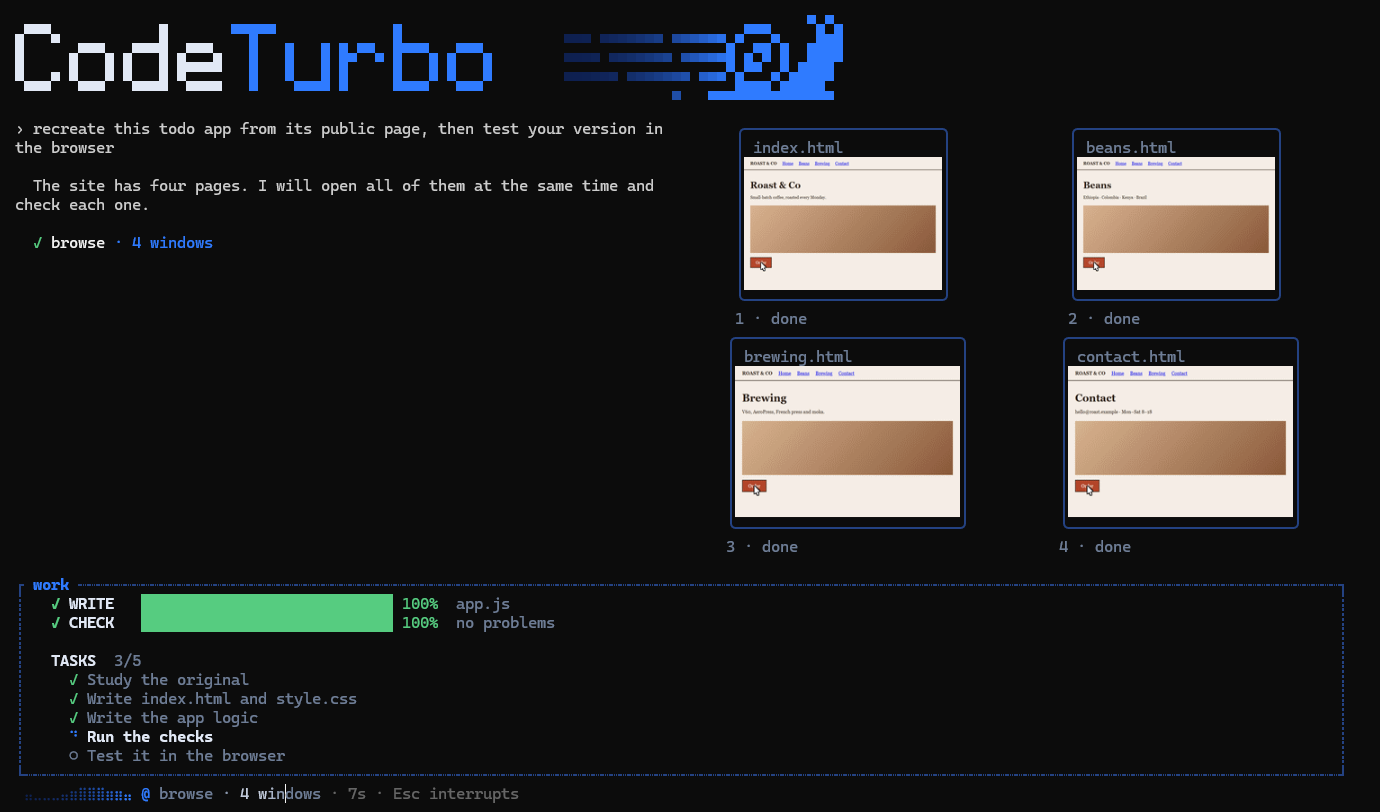
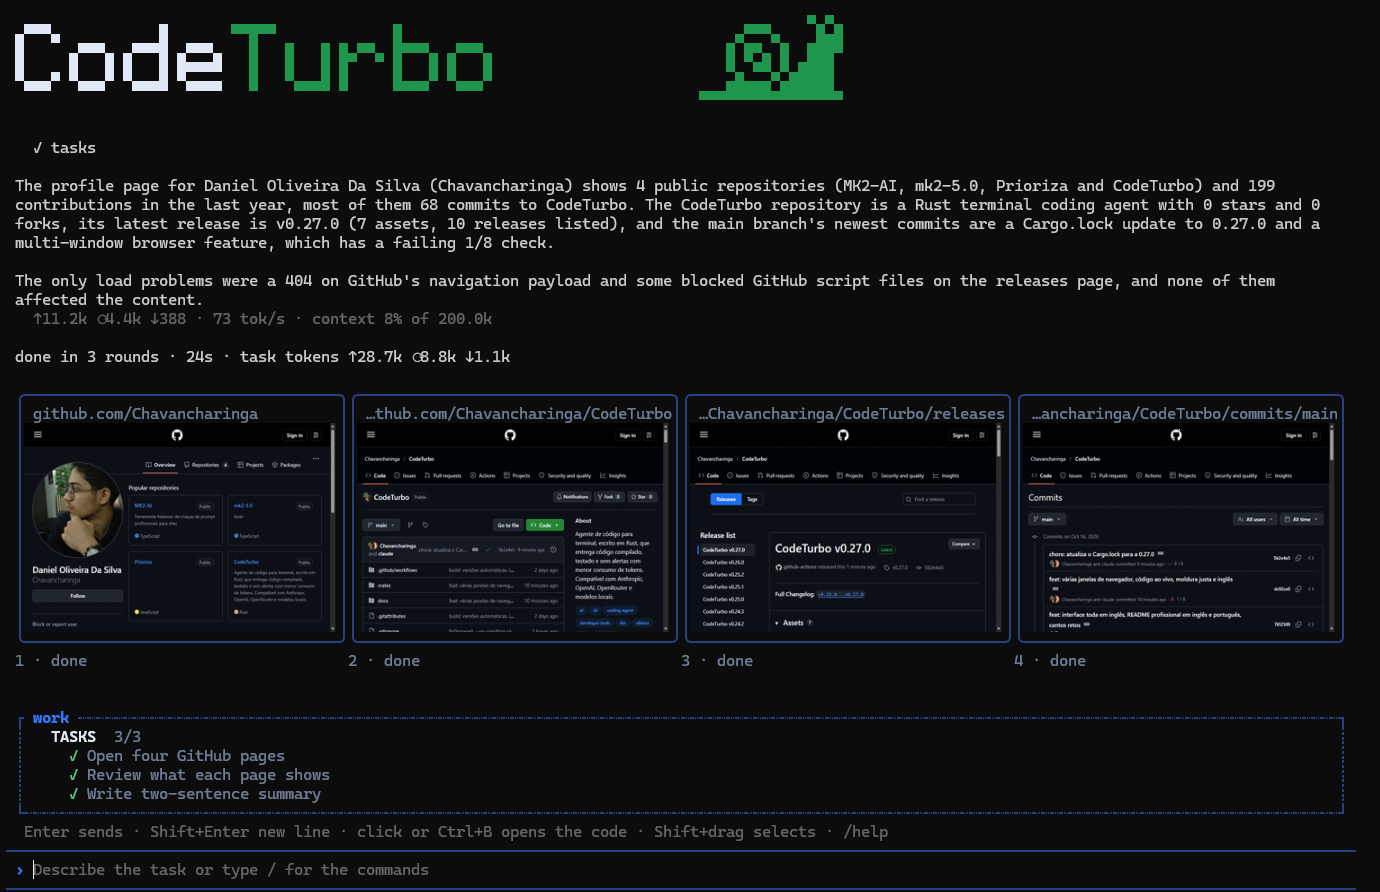
feat(tui): janelas do navegador do mesmo tamanho, em faixa para 3 ou mais
Duas páginas ficam no painel da direita; três ou mais ficam numa faixa
com a largura da tela, todas do mesmo tamanho. Print real do GitHub no README.

diff --git a/crates/coturbo-cli/src/tui/browser.rs b/crates/coturbo-cli/src/tui/browser.rs
@@ -210,31 +210,33 @@ fn readable_on(bg: (u8, u8, u8)) -> Color {
     if lum > 140.0 { Color::Rgb(24, 24, 28) } else { Color::Rgb(245, 245, 248) }
 }
 
-/// Columns and rows of the grid for `n` pages in a window `width` wide: a
-/// page needs about twenty columns to be worth showing.
-fn grid(n: usize, width: u16) -> (usize, usize) {
-    let wanted = match n {
-        0 | 1 => 1,
-        2..=4 => 2,
-        _ => 3,
-    };
-    let cols = wanted.min((width as usize / 20).max(1));
-    (cols, n.max(1).div_ceil(cols))
+/// The grid that shows `n` pages of shape `size` largest inside an area `w`
+/// columns by `h` rows: its columns and rows.
+fn best_grid(n: usize, w: u16, h: u16, size: (u32, u32)) -> (usize, usize) {
+    let (vw, vh) = (size.0.max(1) as f32, size.1.max(1) as f32);
+    let n = n.max(1);
+    let mut best = (1, n, -1.0f32);
+    for cols in 1..=n {
+        let rows = n.div_ceil(cols);
+        let (cw, ch) = (w as usize / cols, h as usize / rows);
+        if cw < 14 || ch < 7 {
+            continue;
+        }
+        // The frame takes two columns and four rows around the page.
+        let scale = ((cw as f32 - 2.0) / vw).min((ch as f32 - 4.0) * 2.0 / vh);
+        if scale > best.2 + 1e-6 {
+            best = (cols, rows, scale);
+        }
+    }
+    (best.0, best.1)
 }
 
-/// The cell of each of `n` pages inside `rect`, row by row.
-fn cells(rect: Rect, n: usize) -> Vec<Rect> {
-    let (cols, rows) = grid(n, rect.width);
+/// The cell of each of `n` pages inside `rect`, row by row, all the same size.
+fn cells(rect: Rect, n: usize, size: (u32, u32)) -> Vec<Rect> {
+    let (cols, rows) = best_grid(n, rect.width, rect.height, size);
     let (cw, ch) = (rect.width / cols as u16, rect.height / rows as u16);
-    (0..n)
-        .map(|i| {
-            let (c, r) = ((i % cols) as u16, (i / cols) as u16);
-            // The last column and row take what is left over.
-            let w = if c as usize == cols - 1 { rect.width - cw * c } else { cw };
-            let h = if r as usize == rows - 1 { rect.height - ch * r } else { ch };
-            Rect { x: rect.x + cw * c, y: rect.y + ch * r, width: w, height: h }
-        })
-        .collect()
+    let x0 = rect.x + (rect.width - cw * cols as u16) / 2;
+    (0..n).map(|i| Rect { x: x0 + cw * (i % cols) as u16, y: rect.y + ch * (i / cols) as u16, width: cw, height: ch }).collect()
 }
 
 /// Where everything goes in the cell `cell`: the frame (as small as the
@@ -499,20 +501,33 @@ impl BrowserView {
         self.tabs.first().and_then(|t| t.pointer(now))
     }
 
-    /// Rows the window needs to show its pages whole at `cols` columns: with
-    /// several pages, the same space is shared between them.
+    /// Rows the window needs to show its page whole at `cols` columns.
     pub fn rows_for(&self, cols: u16) -> u16 {
-        let n = self.windows();
-        let (c, r) = grid(n, cols);
-        let cell = cols / c as u16;
-        let one = self.tabs.iter().find(|t| t.pixels.is_some()).map_or(4, |t| t.rows_for(cell));
-        one * r as u16
+        if self.windows() > 1 {
+            // Two pages, one above the other, in the panel at the side.
+            return self.rows_wide(cols, 60);
+        }
+        self.tabs.iter().find(|t| t.pixels.is_some()).map_or(4, |t| t.rows_for(cols))
+    }
+
+    /// With three or more pages the window lies across the screen; one or two
+    /// stay in the panel at the right (two are stacked there).
+    pub fn wide(&self) -> bool {
+        self.windows() > 2
+    }
+
+    /// Rows a window `width` columns wide needs for all its pages, at most `max`.
+    pub fn rows_wide(&self, width: u16, max: u16) -> u16 {
+        let Some(first) = self.tabs.iter().find(|t| t.pixels.is_some()) else { return 4 };
+        let (cols, rows) = best_grid(self.windows(), width, max, first.size);
+        (first.rows_for(width / cols as u16) * rows as u16).min(max)
     }
 
     /// The pages that are open, with the cell of each in a window at `rect`.
     fn placed(&self, rect: Rect) -> Vec<(usize, Rect)> {
         let open: Vec<usize> = (0..self.tabs.len()).filter(|&i| self.tabs[i].pixels.is_some()).collect();
-        open.iter().copied().zip(cells(rect, open.len())).collect()
+        let size = open.first().map_or((880, 560), |&i| self.tabs[i].size);
+        open.iter().copied().zip(cells(rect, open.len(), size)).collect()
     }
 
     /// With real pictures: once the window is fully open, each page is drawn as

diff --git a/crates/coturbo-cli/tests/tui.rs b/crates/coturbo-cli/tests/tui.rs
@@ -1274,8 +1274,9 @@ fn several_pages_share_the_space_of_one_window_with_only_the_address_on_top() {
         four.apply(frame(i, &format!("file:///site/{page}.html")), t0);
     }
     assert_eq!((one.windows(), four.windows()), (1, 4));
-    // Four pages fit in the room of one: the window is not four times taller.
-    assert!(four.rows_for(60) <= one.rows_for(60) * 2, "{} vs {}", four.rows_for(60), one.rows_for(60));
+    // Several pages lie across the screen, within the height they are given.
+    assert!(four.wide() && !one.wide());
+    assert!(four.rows_wide(60, 24) <= 24, "{}", four.rows_wide(60, 24));
     let later = t0 + Duration::from_secs(2);
     let area = ratatui::layout::Rect::new(0, 0, 60, 24);
     let mut buf = ratatui::buffer::Buffer::empty(area);
@@ -1313,4 +1314,17 @@ fn the_frame_hugs_the_page_and_the_caption_sits_below_it_outside() {
     let page_row = rows.iter().find(|r| r.contains('▀')).unwrap();
     assert_eq!(top.find('╭'), page_row.find('│'), "frame and page share their left edge:\n{text}");
     assert!(!rows[..bottom].iter().any(|r| r.contains("clicando")));
+}
+
+#[test]
+fn two_pages_stay_at_the_right_and_more_lie_across_the_screen() {
+    use coturbo_cli::tui::browser::BrowserView;
+    let t0 = std::time::Instant::now();
+    let mut v = BrowserView::default();
+    for i in 0..4 {
+        let mut f = browser_frame(None, false);
+        f.window = i;
+        v.apply(f, t0);
+        assert_eq!(v.wide(), i >= 2, "{} page(s)", i + 1);
+    }
 }

diff --git a/crates/coturbo-cli/src/tui/app.rs b/crates/coturbo-cli/src/tui/app.rs
@@ -1004,7 +1004,15 @@ impl App {
         let mut body = Rect { x: body.x + 1, width: body.width.saturating_sub(2), ..body };
         // The mini browser takes the right of the screen while the agent uses a page.
         let mut browser_rect = None;
-        if self.browser.visible(now) && area.width >= 80 && area.height >= 20 {
+        if self.browser.visible(now) && area.width >= 80 && area.height >= 20 && self.browser.wide() {
+            // Several pages lie in a strip across the bottom of the conversation.
+            let ph = self.browser.rows_wide(body.width, (body.height * 3 / 5).max(8)).min(body.height.saturating_sub(4));
+            browser_rect = Some(Rect { x: body.x, y: body.bottom().saturating_sub(ph), width: body.width, height: ph });
+            let given = (ph as f32 * self.browser.progress(now)).round() as u16;
+            if given > 0 {
+                body.height = body.height.saturating_sub(given + 1);
+            }
+        } else if self.browser.visible(now) && area.width >= 80 && area.height >= 20 {
             let pw = (body.width / 2).clamp(40, 80);
             if body.width > pw + 30 {
                 let ph = self.browser.rows_for(pw).min(body.height);

diff --git a/crates/coturbo-cli/examples/vitrine.rs b/crates/coturbo-cli/examples/vitrine.rs
@@ -107,7 +107,8 @@ async fn main() {
             std::fs::write(site.join(format!("{name}.html")), html).unwrap();
         }
         let browser = coturbo_design::render::find_browser().expect("Edge or Chrome");
-        for (n, (name, _, _)) in pages.iter().enumerate() {
+        let count: usize = std::env::args().nth(2).and_then(|a| a.parse().ok()).unwrap_or(4);
+        for (n, (name, _, _)) in pages.iter().take(count).enumerate() {
             let mut got: Vec<Frame> = Vec::new();
             let actions = vec![Action::Open(format!("{name}.html")), Action::Click(Target::Text("Order".into()))];
             coturbo_browse::run(&browser, &site, &actions, (880, 560), &mut |mut f| {
